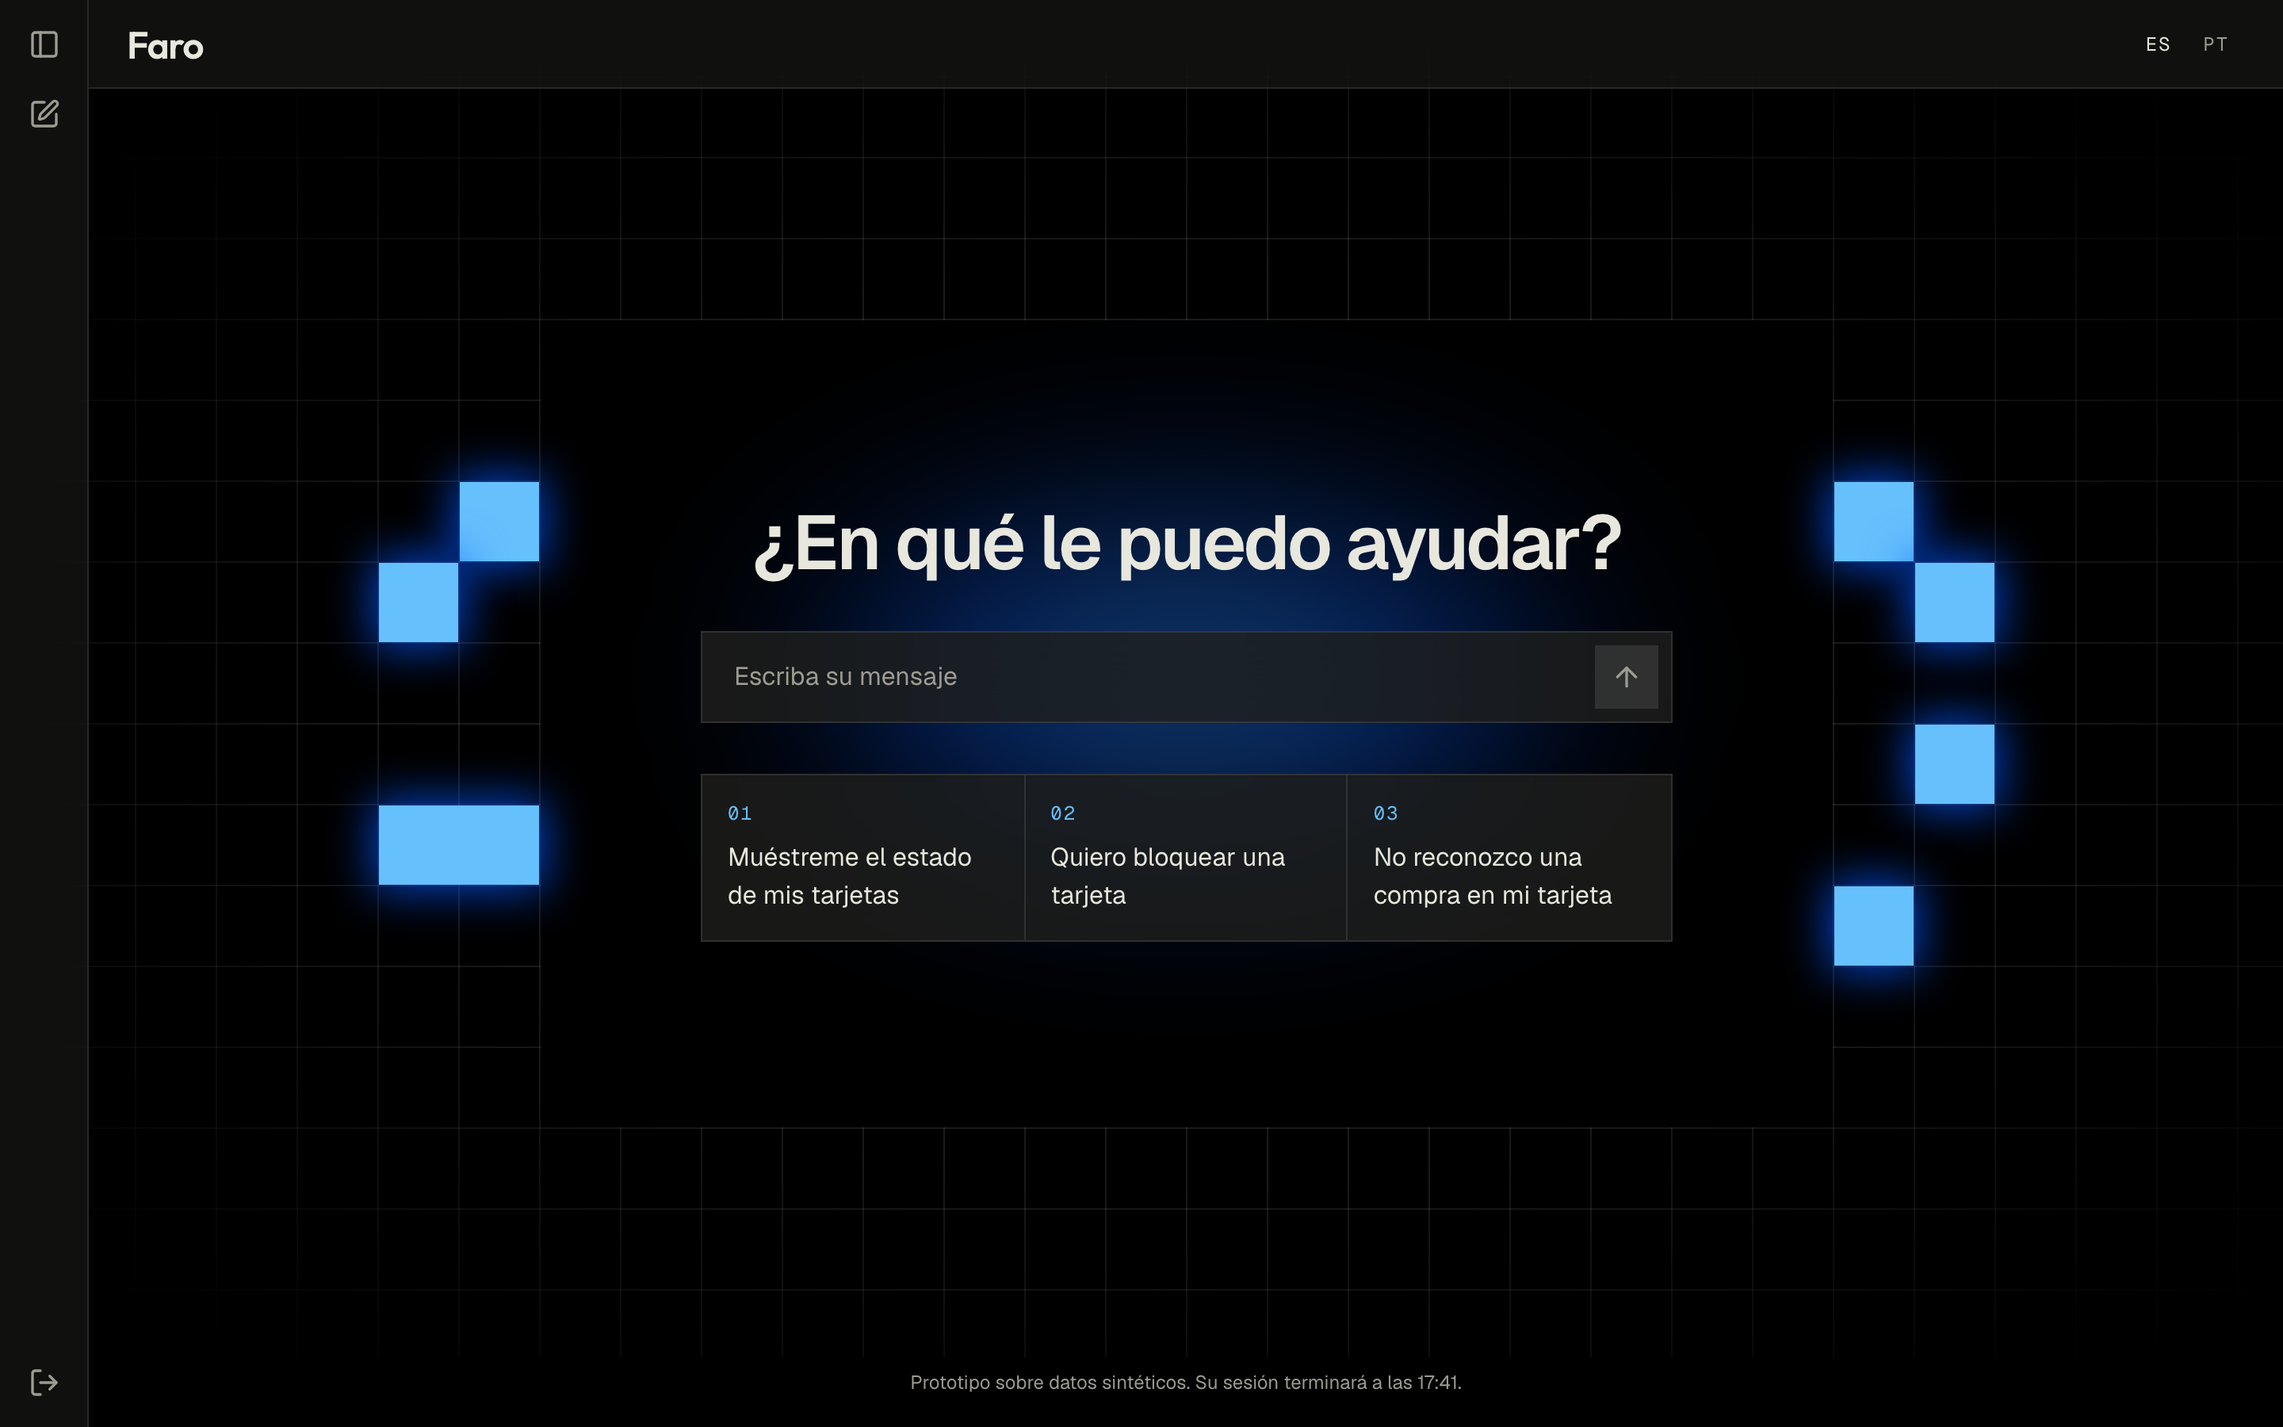
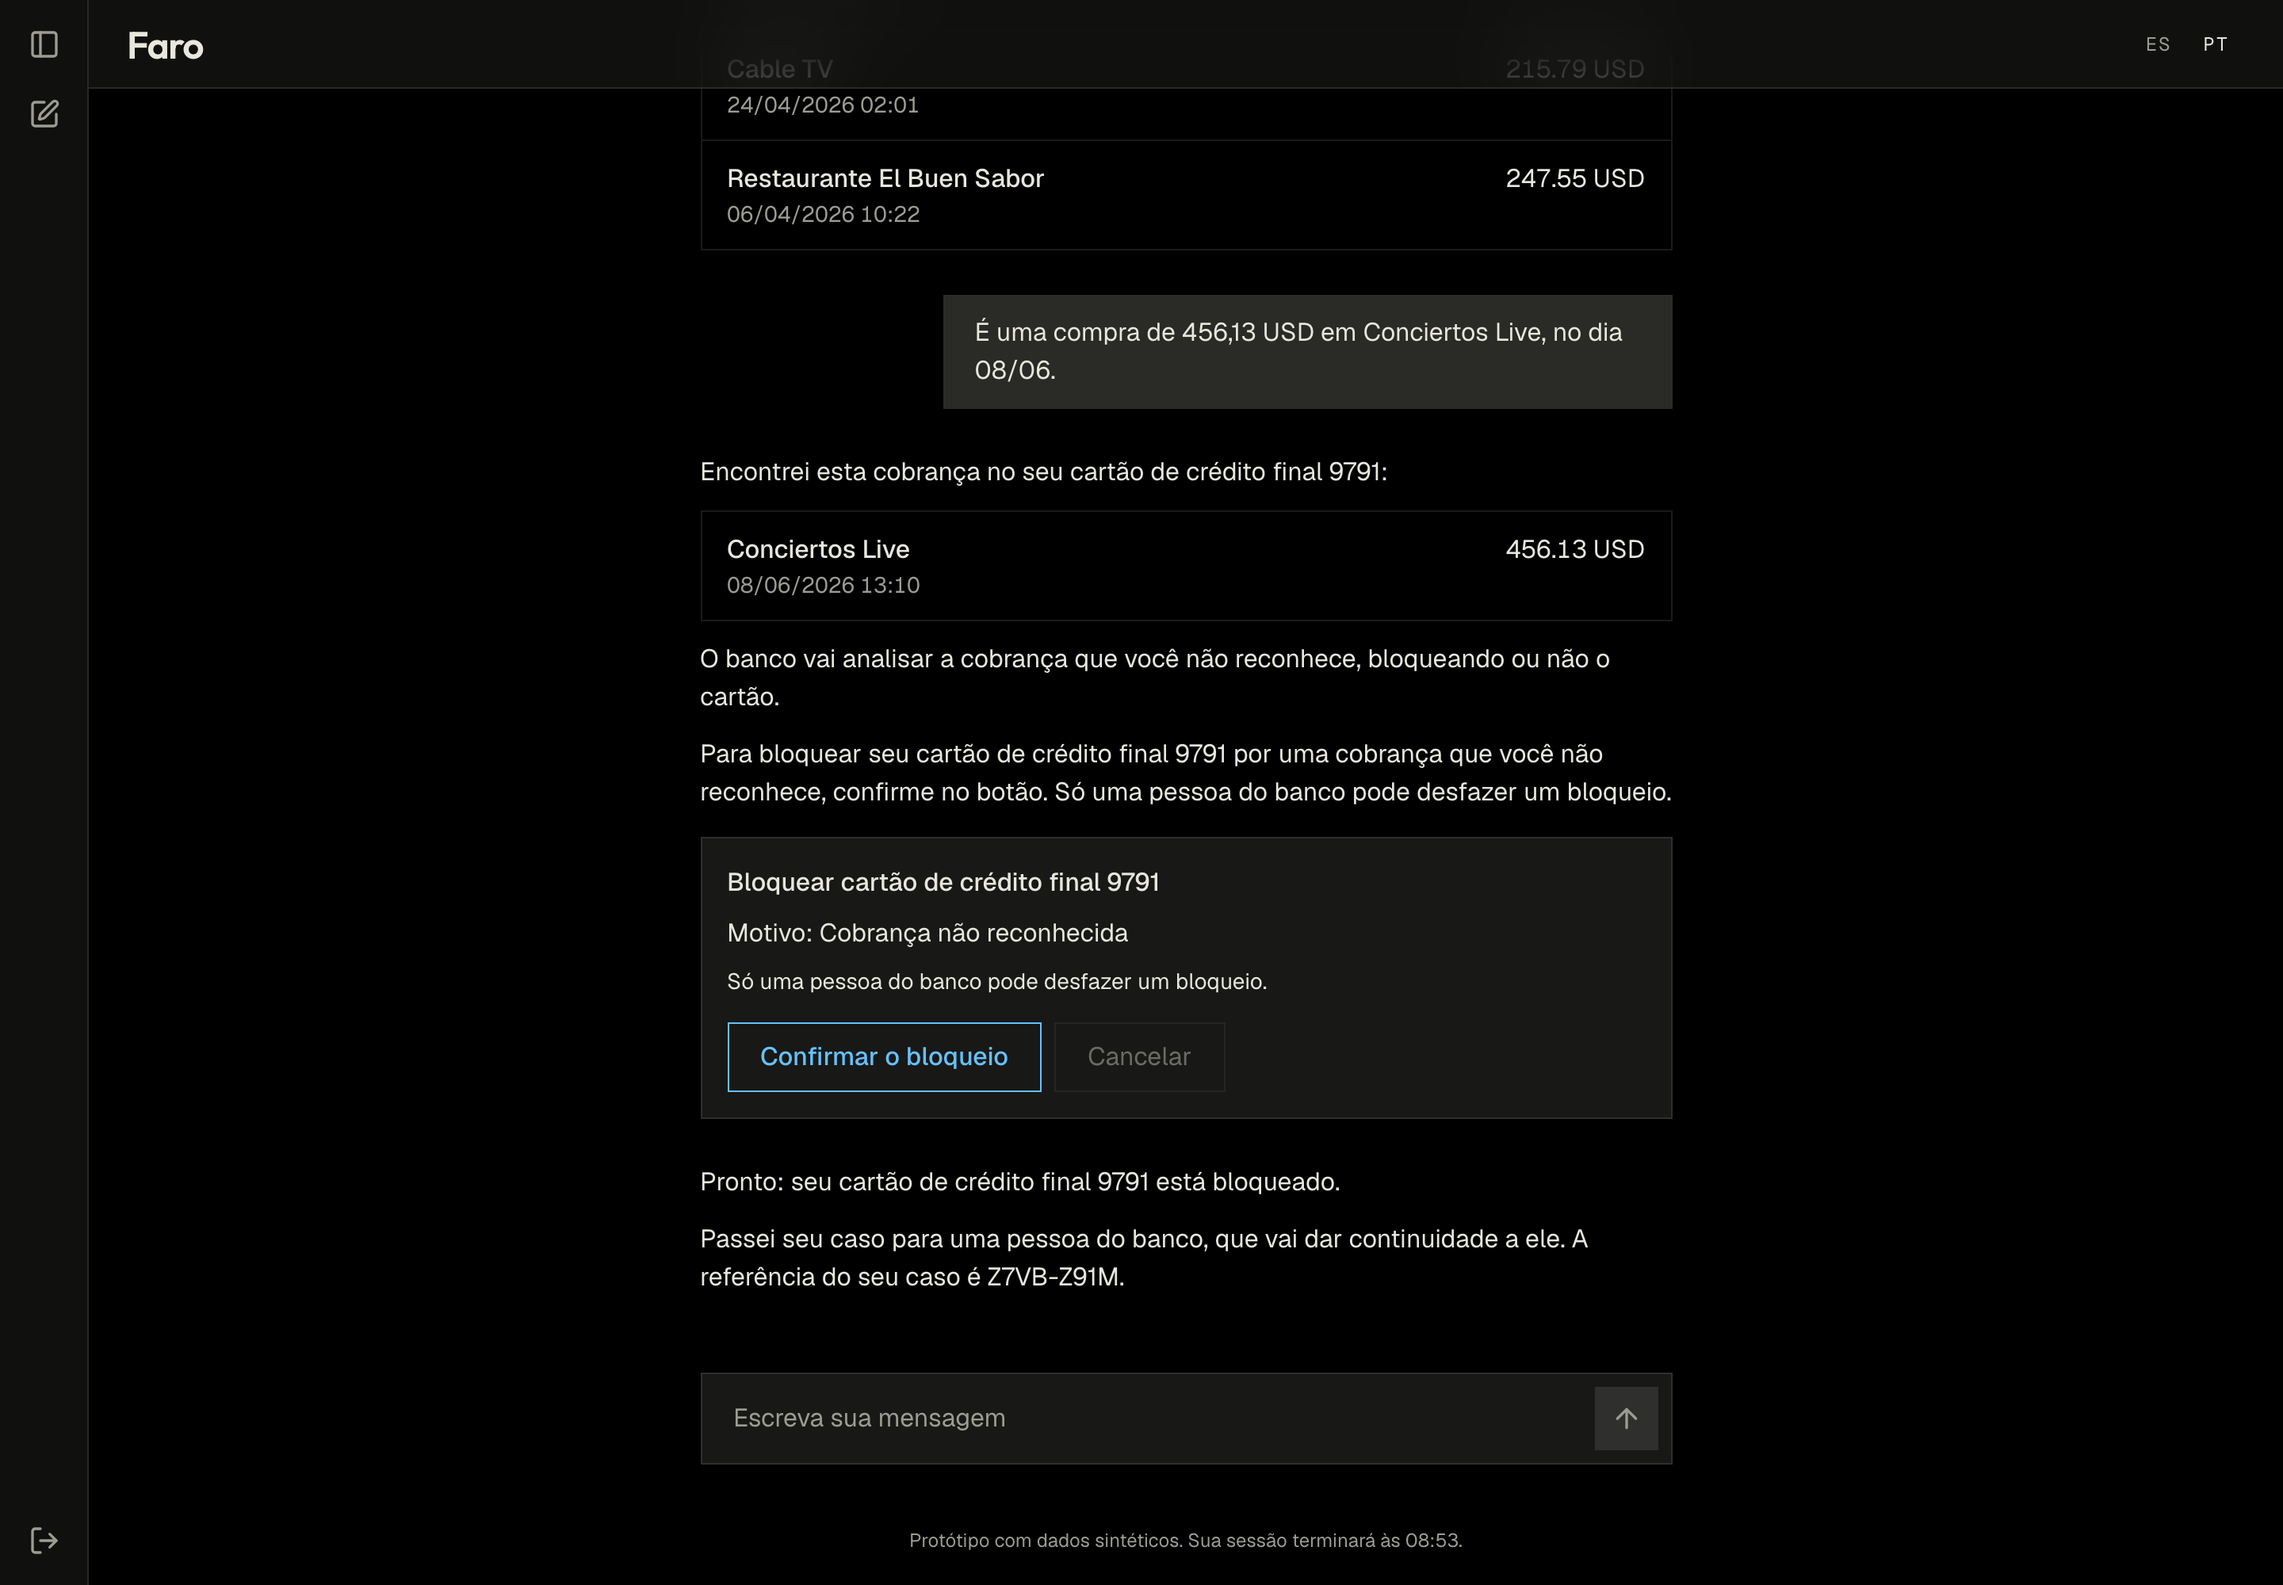
Rebuild the introduction around one journey

diff --git a/README.md b/README.md
@@ -29,32 +29,32 @@
 
 Built for the Factored AI &amp; Data Hackathon 2026. In Spanish, *faro* is a lighthouse; in Portuguese, *ter faro* is to have a nose for things. Guidance in one language, judgment in the other: Faro grounds every answer in the cardholder's own records, enforces permissions in code rather than in the prompt, and gives a human agent a structured case file whenever a request needs one.
 
-A card is declined, goes missing, or shows a charge its holder didn't make. At this bank a person answers those moments: about 500 contacts a day, 5:22 each on average after a 2:00 wait, 35% of them in the category nearest card support. Faro resolves 65% of held-out card contacts without a person, at under a cent each in model calls. Per thousand contacts, that is about 650 answered at once, 37 hours of a person's time, and 640 to 3,240 USD at 1 to 5 USD per human contact: a projection, since the data holds no cost per contact ([the ROI](docs/evaluation/report.md#roi-a-projection)).
-
-A LATAM Bank customer spots a purchase on their credit card that they didn't make, and writes to the bank's chat in Portuguese: *Não reconheço uma compra no meu cartão.*
-
-Faro finds the charge among the card's transactions and offers to block the card. It won't act on a typed *sim*: the chat shows a button that names the card and the reason, and only that button confirms. Once the customer presses it, the tool reads the card back, and Faro says the card is blocked only because that read shows it. Then it files the case to dispute intake and gives the customer a reference.
-
-In another tab, a human agent sees the case arrive within seconds: the request, each verified fact next to the tool call that read it, the verified block, and the customer's own words kept apart from the facts. Nothing to read back, nothing to ask twice. Had the customer cancelled the block, the same case would have arrived marked urgent.
+A LATAM Bank customer spots a charge on their credit card that they didn't make, and writes to the bank's chat in Portuguese: *Não reconheço uma compra no meu cartão.* Faro finds the charge among the card's transactions and offers to block the card. A typed *sim* does nothing: the chat shows a button that names the card and the reason, and only that button confirms. Once the customer presses it, the tool reads the card back, and Faro reports the block because that read shows it. Then it files the case to dispute intake and gives the customer a reference.
 
 <p align="center">
-  <a href="https://faro.gabriel.com.gt"><img src="docs/images/chat.png" alt="The chat, before the first message" width="100%"></a>
+  <a href="https://faro.gabriel.com.gt"><img src="docs/images/chat.png" alt="The chat: the charge found, the block confirmed with the button, the reference given" width="100%"></a>
+</p>
+
+In the console, a human agent sees the case within seconds: the request, every verified fact next to the tool call that read it, the confirmed block, and the customer's own words kept apart from the facts. Nothing to read back, nothing to ask twice. Had the customer cancelled the block, the card would still be live with a charge they don't recognize, so the same case would have arrived marked urgent, for a person to act on first.
+
+<p align="center">
+  <a href="https://faro.gabriel.com.gt/cases"><img src="docs/images/cases.png" alt="The console: the case with its evidence, seconds after the chat filed it" width="100%"></a>
 </p>
 
 > [!NOTE]
-> LATAM Bank and every customer in it are synthetic, from the organizers' dataset. This journey runs end to end on the prototype, and the browser suite plays it, in Portuguese, against every deployed stack it checks ([ADR-0007](docs/adr/0007-role-gated-web-app.md#judges-access)).
+> LATAM Bank and every customer in it are synthetic, from the organizers' dataset. This journey runs end to end on the prototype, and the browser suite replays it as a test, in Portuguese, against each deployed stack before we promote it ([ADR-0007](docs/adr/0007-role-gated-web-app.md#judges-access)).
 
-What sets Faro apart:
+### Why Faro exists
+
+A card is declined, goes missing, or shows a charge its holder didn't make. At this bank, a person answers every one of those moments. The contact center logs about 500 contacts a day; a customer waits about two minutes to be heard and then keeps a person for five more, and 35% of all contacts fall in the category nearest card support. Faro resolves 65% of held-out card contacts without a person, for under a cent each in model calls. For every thousand contacts, that is about 650 answered on the spot and 37 hours of a person's time freed. At 1 to 5 USD per human contact, it is 640 to 3,240 USD saved: a projection, since the data holds no cost per contact (see [the ROI section of the report](docs/evaluation/report.md#roi-a-projection)).
+
+### What sets Faro apart
 
 - **A lighthouse doesn't steer the ship.** Faro shows what the records say and proposes the one action it can take. The customer's button decides; typed text never does.
 - **Judgment in code, not in the prompt.** The tools and Cedar decide every access and action, so a fully compromised model still can't read another customer's card or block one unconfirmed.
 - **Done means verified.** A block is reported only after the card is read back, and handed to a person when the read doesn't show it.
 - **Candid about its records.** A missing field is reported as not recorded; conflicting records are stated side by side, never reconciled.
 - **Graded by an independent oracle.** Expected outcomes come from the policy applied to the frozen bank, in code that shares nothing with Faro's tools, and results are reported with their failures.
-
-<p align="center">
-  <img src="docs/images/confirm.png" alt="The confirm control names the card and the reason; only a person at the bank can undo a block" width="100%">
-</p>
 
 The [product brief](docs/product/brief.md) says who Faro serves and what it refuses to do; the [policy](docs/policy/card-support.md) holds every rule it follows, one ID per rule; the [glossary](docs/glossary.md) explains the terms; [docs/](docs/README.md) indexes the rest.
 
